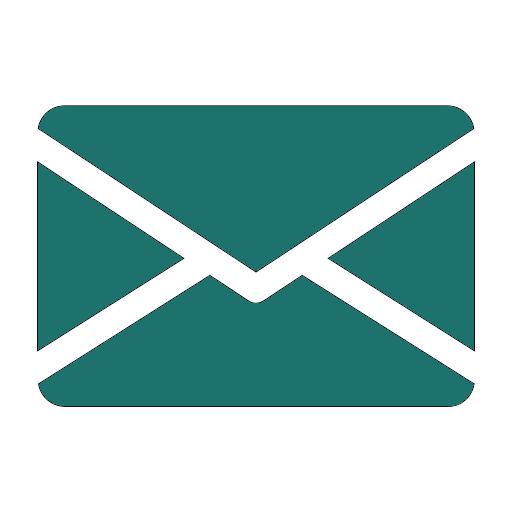
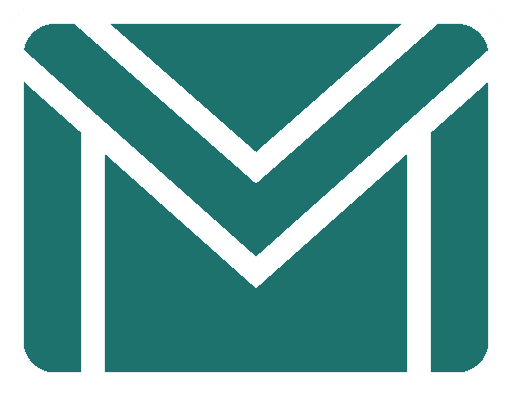
finishing up

diff --git a/index.html b/index.html
@@ -17,7 +17,7 @@
     <a class="social-media" style="border-radius: 0 0 0 10px;">اتصل بنا</a>
 </nav>
 <!-- ------ bot --------  -->
-<a href="#" class="imp-icon" id="bot">
+<a href="https://t.me/sbghtollah_bot" class="imp-icon" id="bot">
     <div class="bot-border"></div>
     <img src="./public/images/bot.png" height="40px"></a>
 <main>
@@ -32,7 +32,7 @@
               <li>ماذا يعني أنه مسلم لرب العالمين؟</li>
               <li>كيف يعيش في الحياة الدنيا مسلمًا لله محسنًا؟</li>
           </ul>
-          <a class="sub-btn" style="margin-top: 30px;" href="#">سجل الآن</a>
+          <a class="sub-btn" style="margin-top: 30px;" href="https://t.me/sbghtollah_bot">سجل الآن</a>
       </div>
       <img class="responsive-img" src="./public/images/sheikh-and-kids.jpg" alt="شيخ وطالبه">
 
@@ -50,12 +50,12 @@
             <p class="impact-type">دورة</p>
         </div>
         <div class="impact-card">
-            <div class="imp-icon"><img src="./public/images/certificate2.png"></div>
+            <div class="imp-icon"><img src="./public/images/certificate.png"></div>
             <p data-target="4832" class="count">0</p>
             <p class="impact-type">خرِّيج</p>
         </div>
         <div class="impact-card">
-            <div class="imp-icon"><img src="./public/images/man-user2.png"></div>
+            <div class="imp-icon"><img src="./public/images/man-user.png"></div>
             <p data-target="15000" class="count">0</p>
             <p class="impact-type">طالب</p>
         </div>
@@ -67,7 +67,7 @@
         <div class="innov-container">
             <div>
                 <p>تنمية مهارات الأبناء هي أحد أولوياتنا في برنامج صبغة الله لذا قمنا بإنشاء معرضا لإبداعات أبنائنا يمكنكم الانضمام له من هنا</p>
-                <a class="sub-btn" style="margin-top: 30px;" href="#">معرض إبداع الأبناء</a>
+                <a class="sub-btn" style="margin-top: 30px;" href="https://t.me/+mTL_Q8h1s0RiYjQ1">معرض إبداع الأبناء</a>
             </div>
             <img class="responsive-img" src="./public/images/kids-drawing.jpg" style="border-radius: 25px;" alt="kid-drawing">
         </div>
@@ -80,33 +80,27 @@
         </button>
         <div class="mags-container hsn">
             <div class="mag-card">
-                <a href="">
-                    <img src="./public/images/mag1.PNG" alt="" height="270px">
+                <a href="https://online.pubhtml5.com/opxlf/enmg/">
+                    <img src="./public/images/mag1.jpg" alt="صبغة الله - العدد الأول" height="270px">
                     <p>الإصدار الأول</p>       
                 </a>
             </div>
             <div class="mag-card">
-                <a href="">
-                    <img src="./public/images/mag1.PNG" alt="" height="270px">
+                <a href="https://online.pubhtml5.com/opxlf/kkmq/">
+                    <img src="./public/images/mag2.jpg" alt="صبغة الله - العدد الثاني" height="270px">
                     <p>الإصدار الثاني</p>       
                 </a>
             </div>
             <div class="mag-card">
-                <a href="">
-                    <img src="./public/images/mag1.PNG" alt="" height="270px">
+                <a href="https://online.pubhtml5.com/rsxui/nczl/">
+                    <img src="./public/images/mag3.jpg" alt="صبغة الله - العدد الثالث" height="270px">
                     <p>الإصدار الثالث</p>       
                 </a>
             </div>
             <div class="mag-card">
-                <a href="">
-                    <img src="./public/images/mag1.PNG" alt="" height="270px">
+                <a href="https://online.pubhtml5.com/rsxui/jknf/">
+                    <img src="./public/images/mag4.jpg" alt="صبغة الله - العدد الرابع" height="270px">
                     <p>الإصدار الرابع</p>       
-                </a>
-            </div>
-            <div class="mag-card">
-                <a href="">
-                    <img src="./public/images/mag1.PNG" alt="" height="270px">
-                    <p>الإصدار الخامس</p>       
                 </a>
             </div>
         </div>
@@ -117,7 +111,7 @@
     <!-- ------ انضم إلينا --------  -->
     <div id="join-us">
       <p>انضم لنا في برنامج صبغة الله تحت إشراف الشيخ حسين عبد الرزاق</p>
-      <a class="sub-btn" href="#">سجل الآن</a>
+      <a class="sub-btn" href="https://t.me/sbghtollah_bot">سجل الآن</a>
     </div>
     <!-- ------ قالو عنا --------  -->
     <div id="testimonials">
@@ -166,18 +160,17 @@
             <img src="./public/images/right-arrow.png" height="30px" alt=">">
           </button>
         </div>
-            
         </div>
     </div>
 </main>
 <!-- ------ حساباتنا --------  -->
 <footer>
-    <a class="email-parent" href="mailto:islamkidshome@gmail.com">islamkidshome@gmail.com <img class="email" src="./public/images/email2.png" height="35px" alt="email"></a>
+    <a class="email-parent" href="mailto:islamkidshome@gmail.com">islamkidshome@gmail.com <img class="email" src="./public/images/email.png" height="35px" alt="email"></a>
     <div id="social-media">
-        <a href=""><img src="./public/images/telegram2.png" height="30px" alt="telegram"></a>
-        <a href=""><img src="./public/images/facebook2.png" height="30px" alt="facebook"></a>
-        <a href=""><img src="./public/images/instagram2.png" height="30px" alt="instagram"></a>
-        <a href=""><img src="./public/images/youtube.png" height="30px" alt="youtube"></a>
+        <a href="https://t.me/sbghatollah"><img src="./public/images/telegram.png" height="30px" alt="telegram"></a>
+        <a href="https://www.facebook.com/sbghatollah"><img src="./public/images/facebook.png" height="30px" alt="facebook"></a>
+        <a href="https://www.instagram.com/sbghatollah/"><img src="./public/images/instagram.png" height="30px" alt="instagram"></a>
+        <a href="https://www.youtube.com/sbghatollah"><img src="./public/images/youtube.png" height="30px" alt="youtube"></a>
     </div>
 </footer>
 </body>

diff --git a/public/style/style.css b/public/style/style.css
@@ -500,6 +500,7 @@ button[disabled=true] img{
     }
     nav{
         font-size: 4vw;
+        width: 100%;
     } 
     nav a {
         padding: 0 3px;
